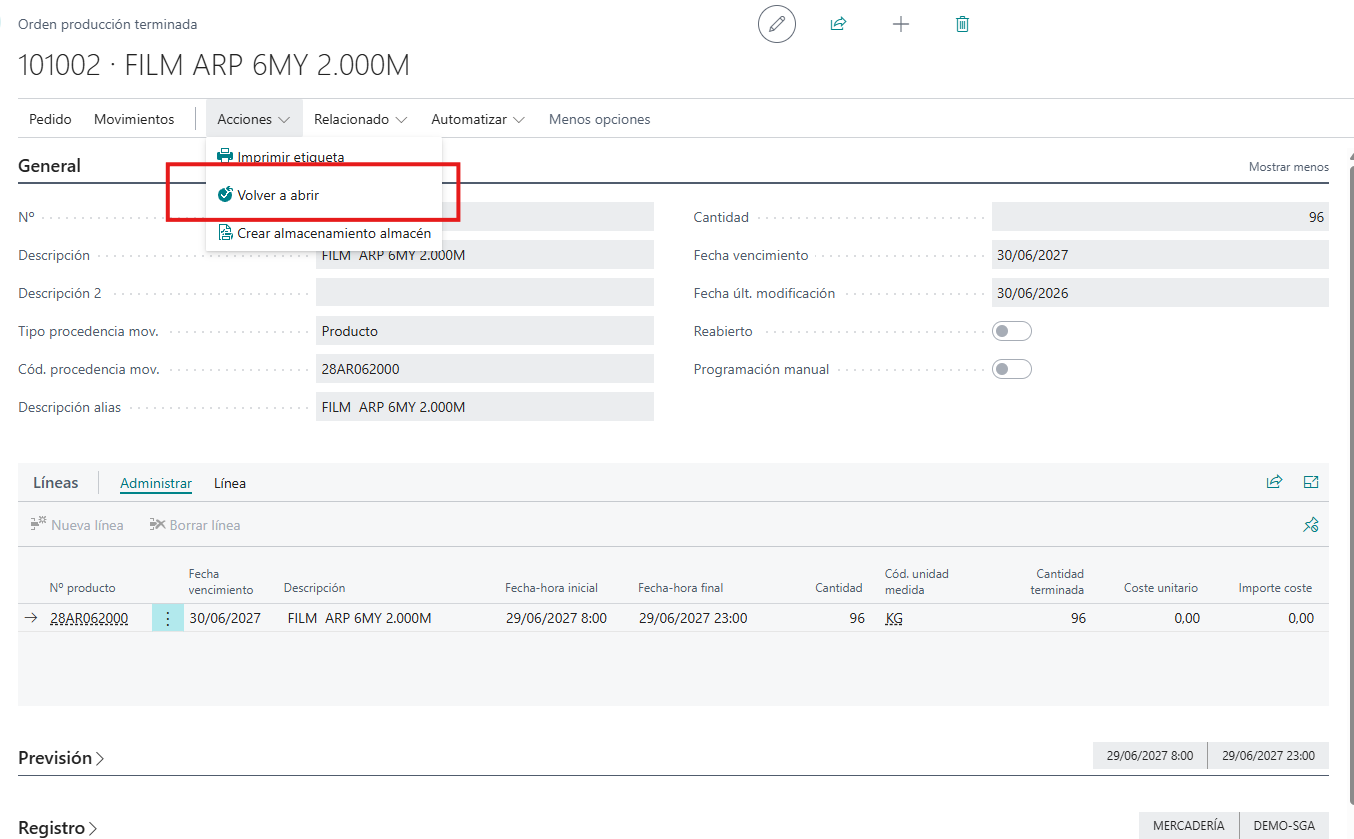
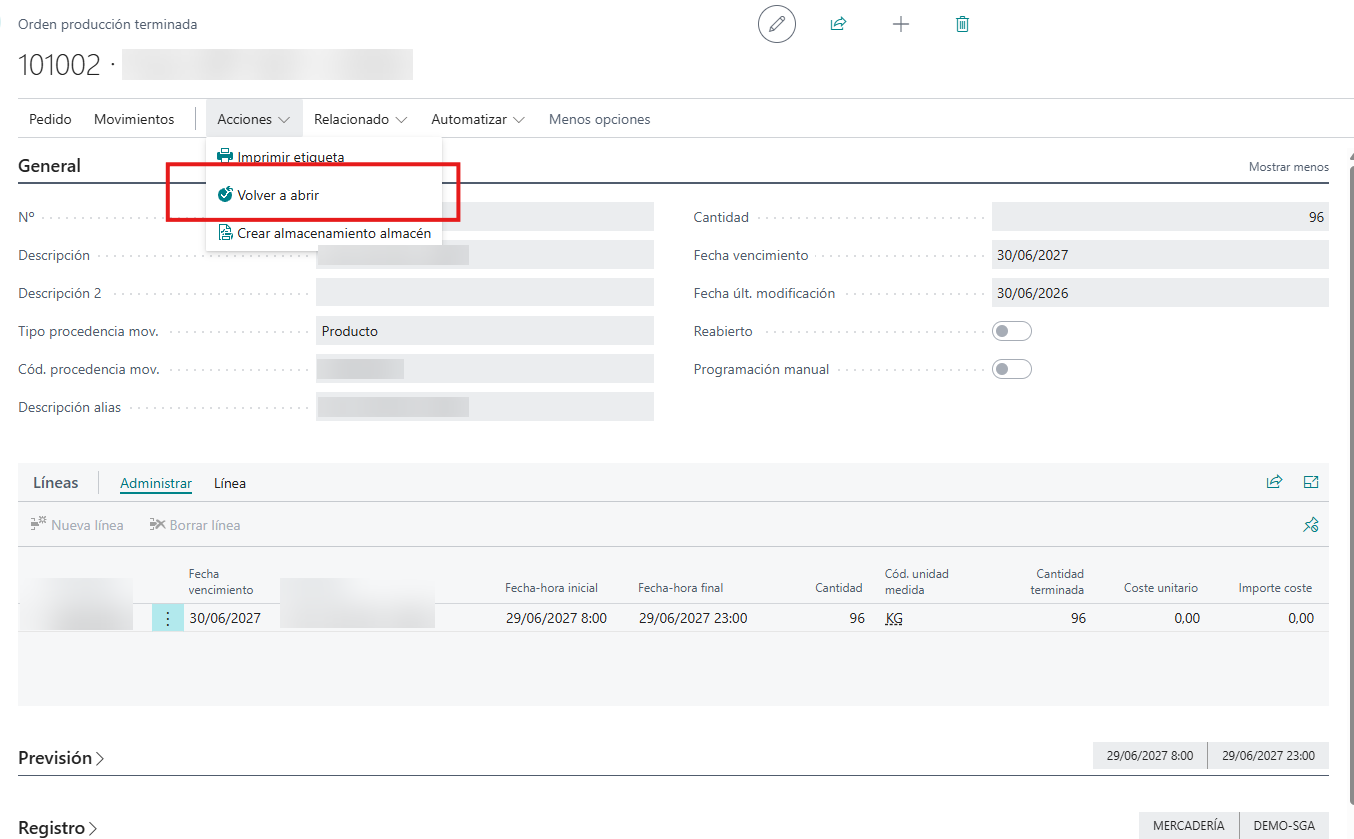
actualizo artículo

diff --git a/_posts/2026-09-14-buenas-practicas-business-central-consultores.md b/_posts/2026-09-14-buenas-practicas-business-central-consultores.md
@@ -11,6 +11,7 @@ media_subpath: /assets/img/posts/buenas-practicas-business-central-consultores/
 ---
 
 Hace un tiempo preparé una sesión interna para el equipo de Business Central de mi empresa con un objetivo muy concreto: juntar en un solo sitio los trucos, atajos y precauciones que cada uno va aprendiendo por su cuenta, a base de proyectos, tickets de soporte y algún que otro susto. 
+
 No era una sesión de teoría de Business Central, sino un repaso de lo que de verdad usamos —o deberíamos usar— en el día a día, tanto nosotros, como consultores, como los propios usuarios de nuestros clientes.
 
 Recupero aquí esa sesión en formato artículo, agrupada en cuatro bloques: trabajo diario y registro, IVA, contabilidad y plan de cuentas, y cobros, pagos y producción.
@@ -28,7 +29,9 @@ Antes de escalar una duda a soporte o de ponerse a buscar en Microsoft Learn, me
 
 ### Fecha de trabajo, no la fecha de hoy
 
-La fecha de trabajo permite indicarle al sistema una fecha distinta a la actual, algo muy útil cuando hay que registrar varios documentos con una fecha diferente a la de hoy. Para los usuarios es cuestión de configurarla correctamente antes de una sesión de registro masivo con fecha atrasada.
+La fecha de trabajo permite indicarle al sistema una fecha distinta a la actual, algo muy útil cuando hay que registrar varios documentos con una fecha diferente a la de hoy. 
+
+Para los usuarios es cuestión de configurarla correctamente antes de una sesión de registro masivo con fecha atrasada.
 
 > **Para quienes programamos en AL:** el matiz es más importante de lo que parece. A la hora de asignar fechas al crear documentos hay que usar `Workdate()` y no `Today()`. Usar `Today()` donde tocaba `Workdate()` es un error sutil que no falla en desarrollo, pero que se nota en cuanto un usuario cambia su fecha de trabajo y el documento se crea con una fecha que no esperaba.
 {: .prompt-tip }
@@ -39,6 +42,7 @@ La fecha de trabajo permite indicarle al sistema una fecha distinta a la actual,
 ### Limitar el periodo de registro permitido
 
 En la Configuración contabilidad tienes los campos "Permitir registro desde" y "Permitir registro hasta", que acotan el rango de fechas en el que se puede registrar cualquier documento. 
+
 Es un control sencillo pero con mucho impacto: evita que, por error o por despiste, alguien registre un documento con una fecha de un periodo ya cerrado o de un ejercicio que todavía no ha empezado.
 
 > Lo habitual es ir moviendo ese rango según avanza el cierre del periodo o el ejercicio, en lugar de dejarlo abierto de forma indefinida. Como conté en [una entrada anterior](https://danielzafon.github.io/mi-bc-copilot-blog/posts/rangos-fechas-permitidos-business-central-v28/), desde la v28 estos campos admiten una fórmula de fecha en lugar de una fecha fija, así que puedes dejar el registro siempre limitado al mes actual (`-PM`/`PM` en un entorno en castellano) sin tener que ir actualizándolo periodo a periodo.
@@ -57,6 +61,7 @@ Antes de registrar cualquier transacción, la función de vista previa de regist
 ### Registrar es para la posteridad
 
 Una vez que una transacción se registra, ya no se puede modificar ni eliminar. Si hace falta un cambio, hay que revertir el asiento contable o emitir un abono en el caso de una factura. 
+
 Es una de las primeras cosas que explico a cualquier usuario nuevo, porque cambia por completo cómo hay que abordar un error: no se "corrige", se revierte o se abona, y el registro original queda ahí, para siempre.
 
 > **Por experiencia:** dejar esto claro desde un principio a los usuarios evita muchos disgustos en el futuro.
@@ -65,6 +70,7 @@ Es una de las primeras cosas que explico a cualquier usuario nuevo, porque cambi
 ### Editar en Excel, con cuidado
 
 Editar en Excel es muy útil para importaciones y modificaciones masivas de registros. Pero es también muy peligroso si lo usan usuarios que no son avanzados: permite cambios directos y en bloque, sin las validaciones línea a línea que sí tienes al editar desde la propia página. 
+
 Tanto abrir en Excel como editar en Excel requieren tener asignado un conjunto de permisos específico, así que es una barrera adicional —y una palanca de control— que conviene usar: no lo des por defecto a todo el mundo, resérvalo para consultores o usuarios avanzados. Mi recomendación es, además, trabajar siempre con una copia o un filtro claro de qué se va a tocar antes de guardar.
 
 ![Menú de exportación con las opciones "Abrir en Excel" y "Editar en Excel" resaltadas sobre un listado de clientes](02-editar-en-excel.png){: w="1657" h="856" .shadow }
@@ -72,8 +78,7 @@ Tanto abrir en Excel como editar en Excel requieren tener asignado un conjunto d
 
 ### Analizar sin salir de BC
 
-La función Analizar es útil para contar registros o hacer sumatorios, y permite filtrar, agrupar o dinamizar los datos de forma parecida a una tabla dinámica sin salir de Business Central. 
-Desde la versión 26.2 además permite incluir información de tablas relacionadas, lo que la hace todavía más práctica para resolver de un vistazo preguntas que antes requerían exportar a Excel.
+La función Analizar es útil para contar registros o hacer sumatorios, y permite filtrar, agrupar o dinamizar los datos de forma parecida a una tabla dinámica sin salir de Business Central. Desde la versión 26.2 además permite incluir información de tablas relacionadas, lo que la hace todavía más práctica para resolver de un vistazo preguntas que antes requerían exportar a Excel.
 
 ![Modo de análisis sobre el histórico de facturas de venta, con el importe agrupado y sumado por cliente](10-analizar-importe-por-cliente.png){: w="1606" h="861" .shadow }
 *Análisis del histórico de facturas de venta, agrupado por cliente con el importe sumado*
@@ -83,6 +88,7 @@ Desde la versión 26.2 además permite incluir información de tablas relacionad
 ### Editar movimientos de IVA, cuando hace falta
 
 Es posible editar los movimientos de IVA para corregir o actualizar información como el CIF y el código de país. No es algo que se deba hacer a la ligera, pero es útil y necesario para corregir errores al enviar el SII y para extraer correctamente los modelos 347 y 349. 
+
 Por experiencia, la mayoría de problemas al sacarlos vienen de clientes o proveedores con movimientos sin CIF o sin el código de país informado, así que cuando un cliente detecta una discrepancia en estos modelos, ahí es el primer sitio donde miro antes de buscar el problema en otro lado.
 
 ![Página "Movs. IVA" en modo "Editar lista" con las columnas "Cód. país/región" y "CIF/NIF" resaltadas](11-modificar-movs-iva.png){: w="1738" h="843" .shadow }
@@ -207,8 +213,6 @@ También puedes volver a abrir una orden de producción terminada desde el menú
 
 ## Reflexión final
 
-Todas las empresas compran y venden, y algunas transforman; eso vale para cualquier empresa del mundo, por especial que se crea. 
-
-Ni tú ni yo somos cirujanos ni físicos cuánticos: estamos contabilizando asientos, facturas y abonos con los mismos flujos y las mismas herramientas que usan miles de empresas —hoy en día, más de 50.000 solo en BC SaaS—. 
+Todas las empresas compran y venden, y algunas transforman; eso vale para cualquier empresa del mundo, por especial que se crea. Ni tú ni yo somos cirujanos ni físicos cuánticos: estamos contabilizando asientos, facturas y abonos con los mismos flujos y las mismas herramientas que usan miles de empresas —hoy en día, más de 50.000 solo en BC SaaS—. 
 
 Por experiencia, es muy importante recalcar a los clientes que utilicen las herramientas que nos da Business Central para minimizar los errores del día a día: cambiar la fecha de trabajo, hacer una vista previa a tiempo o dedicar un poco de tiempo a configurar y mantener los periodos de fechas en los que podemos registrar evita muchos disgustos.
